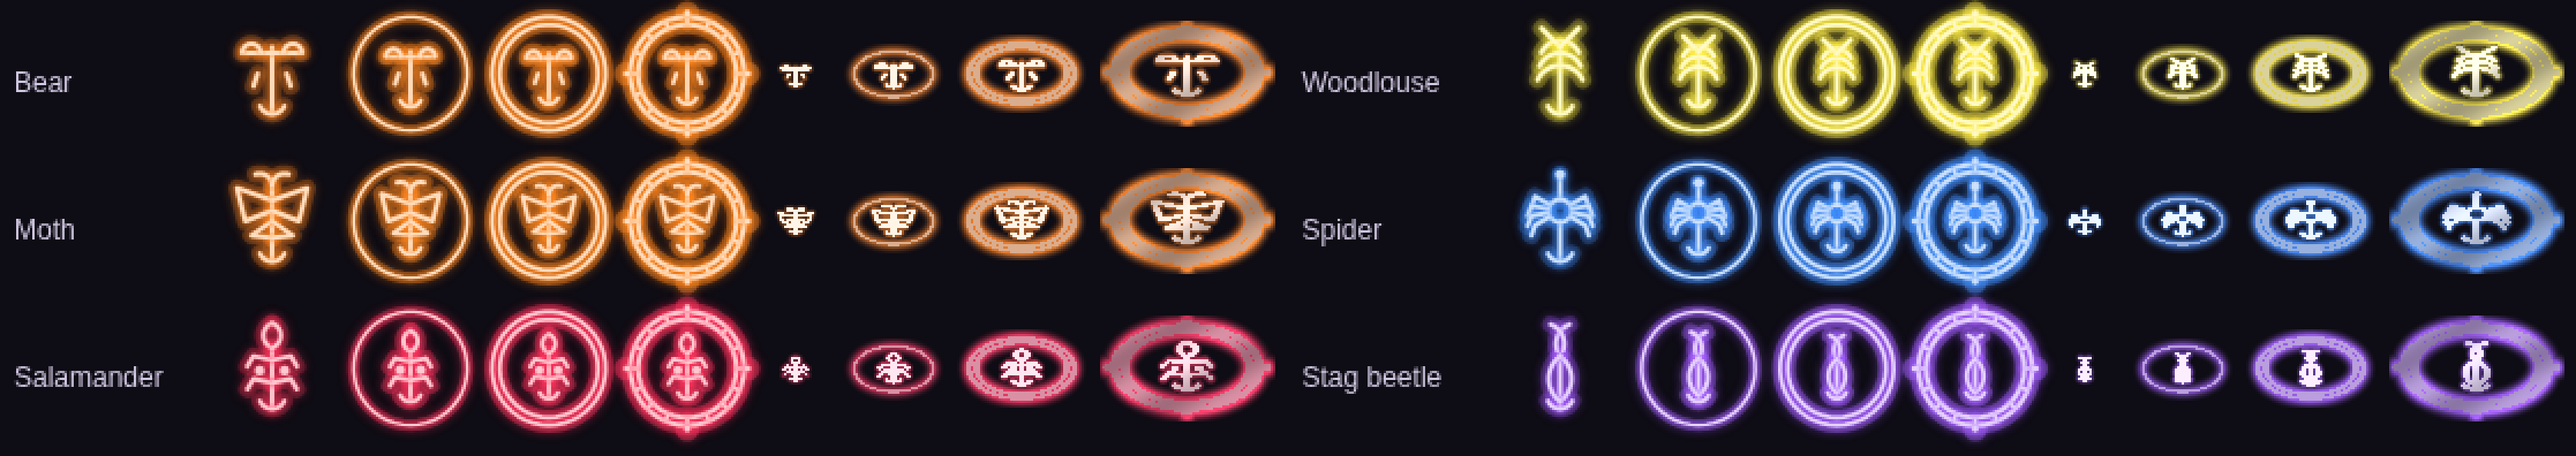
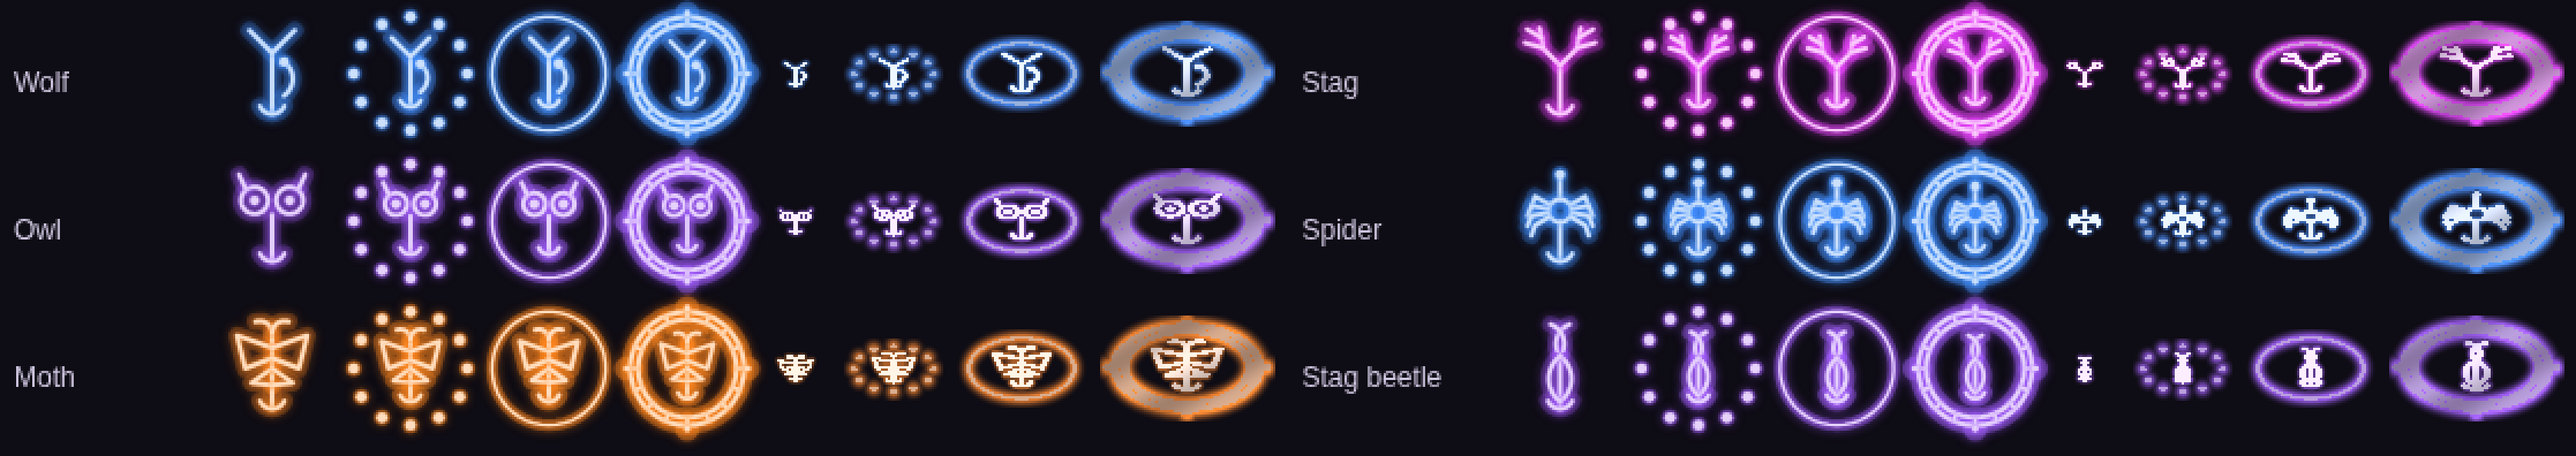
Sigils: the young's ring is dotted, the adult's a full circle
Ed: a dotted circle for young creatures and one full circle at the
normal line weight for adults (baby and legend unchanged), in every
form: flat, on the ground, floating, and the exported per-level SVGs
and now PNGs. The check makes sure the two still tell apart at 14 px.

Claude-Session: https://claude.ai/code/session_01FVGKHvaavDn5xGsWtRTBaz

diff --git a/art/sigils.js b/art/sigils.js
@@ -125,14 +125,15 @@ const rgb = c => `rgb(${c.join(",")})`;
 
 // ---- level frames ----
 // A creature level's frame, for any level number (0 baby, 1 young, 2 adult, 3 legend, and
-// beyond): size steps first, then rings, then ornament.
+// beyond): size steps first, then rings, then ornament. Ed: the young's ring is dotted, the
+// adult's a full circle; the legend's double ring is banded with ticks and rayed.
 //   metres: across on the ground (about 2, 3, 4, 5.5); core: the core line's thickness (x a
 //   baby's); halo: its brightness (0..1); rings: how many; band: rune ticks between the outer two
 //   rings; rays: short points outside the outer ring; shimmer: a slow sparkle.
 export const SIGIL_LEVELS = ["baby", "young", "adult", "legend"];
 export function sigilFrame(level = 0) {
   const L = Math.max(0, level);
-  return { level: L, metres: 2 + L + Math.max(0, L - 2) * .5, core: 1 + .2 * L, halo: Math.min(1, .45 + .19 * L), rings: Math.min(L >= 4 ? 3 : 2, Math.floor(L)), band: L >= 3, rays: L >= 4 ? 8 : L >= 3 ? 4 : 0, shimmer: L >= 3 };
+  return { level: L, metres: 2 + L + Math.max(0, L - 2) * .5, core: 1 + .2 * L, halo: Math.min(1, .45 + .19 * L), rings: L >= 4 ? 3 : L >= 3 ? 2 : L >= 2 ? 1 : 0, dots: L >= 1 && L < 2 ? 12 : 0, band: L >= 3, rays: L >= 4 ? 8 : L >= 3 ? 4 : 0, shimmer: L >= 3 };
 }
 
 // ---- geometry: strokes as polylines, with their lengths ----
@@ -159,11 +160,13 @@ export function sigilStrokes(id) {
 const markCache = new Map();
 export function sigilMark(id, level = 0) {
   const key = id + ":" + level; if (markCache.has(key)) return markCache.get(key);
-  const F = level === null ? null : sigilFrame(level), k = !F ? 1 : F.rings >= 2 ? .6 : F.rings ? .66 : .8, o = (1 - k) / 2;
-  const thick = F ? F.core : 1, ring = SIGIL_STROKE * .55 * Math.min(1.6, .8 + .25 * (F?.level ?? 0)), frame = [];
+  const F = level === null ? null : sigilFrame(level), k = !F ? 1 : F.rings >= 2 ? .6 : F.rings || F.dots ? .66 : .8, o = (1 - k) / 2;
+  const thick = F ? F.core : 1, ring = SIGIL_STROKE * .55 * ((F?.level ?? 0) < 3 ? 1 : Math.min(1.6, .8 + .25 * F.level)), frame = []; // an adult's ring at the normal line weight; the legend's heavier
   if (F) {
     const R = .44, circle = r => polyline({ a: [.5, .5, r, 90, 450] }); // from the front, round
     for (let i = 0; i < F.rings; i++) frame.push({ ...circle(R - i * .06), w: ring, part: "ring" });
+    // a young creature's dotted circle: round dots spaced well apart, so they stay distinct on the ground and small in the stack
+    for (let i = 0; i < F.dots; i++) { const a = (90 + i * 360 / F.dots) * Math.PI / 180; frame.push({ dot: true, pts: [[.5 + R * Math.cos(a), .5 + R * Math.sin(a)]], len: .05, r: .042, w: ring, part: "ring" }); }
     if (F.band && F.rings >= 2) for (let i = 0; i < 16; i++) { const a = (90 + i * 22.5) * Math.PI / 180, r0 = R - .06 + .014, r1 = R - .014; frame.push({ ...polyline({ l: [[.5 + r0 * Math.cos(a), .5 + r0 * Math.sin(a)], [.5 + r1 * Math.cos(a), .5 + r1 * Math.sin(a)]] }), w: ring * .8, part: "band" }); }
     for (let i = 0; i < F.rays; i++) { const a = (90 + i * 360 / F.rays) * Math.PI / 180, r0 = R + .02, r1 = .5 - ring / 2; frame.push({ ...polyline({ l: [[.5 + r0 * Math.cos(a), .5 + r0 * Math.sin(a)], [.5 + r1 * Math.cos(a), .5 + r1 * Math.sin(a)]] }), w: ring * 1.3, part: "ray" }); }
   }

diff --git a/tools/art-lab/dist/witch-art-lab.html b/tools/art-lab/dist/witch-art-lab.html
@@ -1882,14 +1882,15 @@ const rgb = c => `rgb(${c.join(",")})`;
 
 // ---- level frames ----
 // A creature level's frame, for any level number (0 baby, 1 young, 2 adult, 3 legend, and
-// beyond): size steps first, then rings, then ornament.
+// beyond): size steps first, then rings, then ornament. Ed: the young's ring is dotted, the
+// adult's a full circle; the legend's double ring is banded with ticks and rayed.
 //   metres: across on the ground (about 2, 3, 4, 5.5); core: the core line's thickness (x a
 //   baby's); halo: its brightness (0..1); rings: how many; band: rune ticks between the outer two
 //   rings; rays: short points outside the outer ring; shimmer: a slow sparkle.
 const SIGIL_LEVELS = ["baby", "young", "adult", "legend"];
 function sigilFrame(level = 0) {
   const L = Math.max(0, level);
-  return { level: L, metres: 2 + L + Math.max(0, L - 2) * .5, core: 1 + .2 * L, halo: Math.min(1, .45 + .19 * L), rings: Math.min(L >= 4 ? 3 : 2, Math.floor(L)), band: L >= 3, rays: L >= 4 ? 8 : L >= 3 ? 4 : 0, shimmer: L >= 3 };
+  return { level: L, metres: 2 + L + Math.max(0, L - 2) * .5, core: 1 + .2 * L, halo: Math.min(1, .45 + .19 * L), rings: L >= 4 ? 3 : L >= 3 ? 2 : L >= 2 ? 1 : 0, dots: L >= 1 && L < 2 ? 12 : 0, band: L >= 3, rays: L >= 4 ? 8 : L >= 3 ? 4 : 0, shimmer: L >= 3 };
 }
 
 // ---- geometry: strokes as polylines, with their lengths ----
@@ -1916,11 +1917,13 @@ function sigilStrokes(id) {
 const markCache = new Map();
 function sigilMark(id, level = 0) {
   const key = id + ":" + level; if (markCache.has(key)) return markCache.get(key);
-  const F = level === null ? null : sigilFrame(level), k = !F ? 1 : F.rings >= 2 ? .6 : F.rings ? .66 : .8, o = (1 - k) / 2;
-  const thick = F ? F.core : 1, ring = SIGIL_STROKE * .55 * Math.min(1.6, .8 + .25 * (F?.level ?? 0)), frame = [];
+  const F = level === null ? null : sigilFrame(level), k = !F ? 1 : F.rings >= 2 ? .6 : F.rings || F.dots ? .66 : .8, o = (1 - k) / 2;
+  const thick = F ? F.core : 1, ring = SIGIL_STROKE * .55 * ((F?.level ?? 0) < 3 ? 1 : Math.min(1.6, .8 + .25 * F.level)), frame = []; // an adult's ring at the normal line weight; the legend's heavier
   if (F) {
     const R = .44, circle = r => polyline({ a: [.5, .5, r, 90, 450] }); // from the front, round
     for (let i = 0; i < F.rings; i++) frame.push({ ...circle(R - i * .06), w: ring, part: "ring" });
+    // a young creature's dotted circle: round dots spaced well apart, so they stay distinct on the ground and small in the stack
+    for (let i = 0; i < F.dots; i++) { const a = (90 + i * 360 / F.dots) * Math.PI / 180; frame.push({ dot: true, pts: [[.5 + R * Math.cos(a), .5 + R * Math.sin(a)]], len: .05, r: .042, w: ring, part: "ring" }); }
     if (F.band && F.rings >= 2) for (let i = 0; i < 16; i++) { const a = (90 + i * 22.5) * Math.PI / 180, r0 = R - .06 + .014, r1 = R - .014; frame.push({ ...polyline({ l: [[.5 + r0 * Math.cos(a), .5 + r0 * Math.sin(a)], [.5 + r1 * Math.cos(a), .5 + r1 * Math.sin(a)]] }), w: ring * .8, part: "band" }); }
     for (let i = 0; i < F.rays; i++) { const a = (90 + i * 360 / F.rays) * Math.PI / 180, r0 = R + .02, r1 = .5 - ring / 2; frame.push({ ...polyline({ l: [[.5 + r0 * Math.cos(a), .5 + r0 * Math.sin(a)], [.5 + r1 * Math.cos(a), .5 + r1 * Math.sin(a)]] }), w: ring * 1.3, part: "ray" }); }
   }

diff --git a/art/README.md b/art/README.md
@@ -64,15 +64,15 @@ Each creature has a **sigil** (`art/sigils.js`), its name written in the forest'
 
 They glow **neon**: a near-white core in a coloured halo, each species in its own palette slot. Each creature **level** has a frame that grows, so a field of runes shows at a glance what is about:
 - **baby** (level 0): the bare sigil, about 2 m across;
-- **young** (1): about 3 m, thicker and brighter, with one ring;
-- **adult** (2): about 4 m, thicker and brighter again, with two rings;
+- **young** (1): about 3 m, thicker and brighter, in a dotted circle (12 round dots);
+- **adult** (2): about 4 m, thicker and brighter again, in a full circle at the normal line weight;
 - **legend** (3): about 5.5 m, the thickest and brightest, with its double ring banded with rune ticks, four rays and a slow shimmer.
 
 | Call | Gives |
 |---|---|
 | `SIGILS[id]` | the strokes, in writing order, in a unit box (x right, y down): `{ l: [[x, y], …] }` a polyline, `{ a: [cx, cy, r, from, to] }` an arc (degrees, 0 right, 90 down), `{ d: [x, y] }` an end dot; each drawn from its first point. `SIGIL_STROKE` and `SIGIL_DOT` are the stroke width and dot radius |
 | `NEON`, `SIGIL_NEON[id]`, `sigilColour(id)` | the neon palette, each species' slot in it, and its colour. Every renderer also takes `colour`, so the game can recolour (per outfit, say) |
-| `sigilFrame(level)`, `SIGIL_LEVELS` | a level's frame, for any level number (0 baby, 1 young, 2 adult, 3 legend): `{ metres, core, halo, rings, band, rays, shimmer }`. Size steps first, then rings, then ornament, so levels between or beyond these extend it |
+| `sigilFrame(level)`, `SIGIL_LEVELS` | a level's frame, for any level number (0 baby, 1 young, 2 adult, 3 legend): `{ metres, core, halo, rings, dots, band, rays, shimmer }`. Size steps first, then rings, then ornament, so levels between or beyond these extend it |
 | `sigilStrokes(id)`, `sigilMark(id, level)` | the sigil's strokes as polylines, or everything drawn for a level (the frame first, then the sigil scaled into it) in its "mark" box. Each carries its share of the draw-on (`start`, `end`, 0 to 1) and its width |
 | `sigilSVG(id, { size, level, colour, glow, progress })`, `drawSigil(ctx, id, { x, y, size, level, colour, progress, glow })` | the neon sigil as an SVG string or on a canvas, bare (`level` null, the default) or framed for a level; `progress` below 1 draws it partly written. Transform the canvas first to lay it on a plane |
 | `sigilGlyph(id, size)`, `sigilHit(id, u, v, w)` | the bare sigil as a pixel glyph (`{ w, h, m }`, 12 to 24 px), or a hit test for carving it like `runeGlyph` |
@@ -85,7 +85,7 @@ They glow **neon**: a near-white core in a coloured halo, each species in its ow
 
 In a 3D engine, `drawSigil` onto a canvas texture laid flat on the ground (or upright, facing the camera, for the stack) does the same as the pixel fields, with the engine doing the foreshortening.
 
-The export writes each sigil as `sigil-<species>.svg` (bare), a 64 px `sigil-<species>.png`, and `sigil-<species>-baby|young|adult|legend.svg` (framed). It lists them, with their strokes, neon slots, the level frames and the stack's tuning, under `sigils` in `manifest.json`.
+The export writes each sigil as `sigil-<species>.svg` (bare), a 64 px `sigil-<species>.png`, and `sigil-<species>-baby|young|adult|legend.svg` and `.png` (framed, 64 px). It lists them, with their strokes, neon slots, the level frames and the stack's tuning, under `sigils` in `manifest.json`.
 
 The night lighting pass the lab uses is `shade(target, out, style, lights, rect)` in `art/lighting.js`.
 

diff --git a/CLAUDE.md b/CLAUDE.md
@@ -27,7 +27,7 @@ Not in CI, run by builders before a FINAL: `npm run build && npm run smoke`, a h
 
 The art generator (`art/`, entry `art/generator.js`) and the Witch Art Lab (`tools/art-lab/`) have one more check, not in CI, run from the repository root before every push that touches them:
 
-- `node art/check.mjs` — builds the lab, opens the source page and the built page in headless Chromium (no script errors, a bestiary card for every species, the scene drawn), and draws every creature, tree, bush, area type, soundsystem and sigil (each non-empty, creatures and soundsystems standing on their bottom row; baby < young < adult < legend for every species, and the bigger species' adults 1.15 to 1.45 times the witch; party gear (collar, hat, shoes) shows on every species at baby, young and adult without changing its size, woken eyes glow red, partyGear is seeded and varied; only magical materials glow, and flowering areas have no glowing pixels; a soundsystem about three times the witch; the witch's rise and descend frames exist for both facings at her ordinary scale with nothing NaN; every species has a sigil that renders as vector, as a 12 px glyph, on the ground and floating, its strokes inside the box, each level's ground rune bigger with more rings; the leash stack stands newest at the bottom, trails behind her flight and settles).
+- `node art/check.mjs` — builds the lab, opens the source page and the built page in headless Chromium (no script errors, a bestiary card for every species, the scene drawn), and draws every creature, tree, bush, area type, soundsystem and sigil (each non-empty, creatures and soundsystems standing on their bottom row; baby < young < adult < legend for every species, and the bigger species' adults 1.15 to 1.45 times the witch; party gear (collar, hat, shoes) shows on every species at baby, young and adult without changing its size, woken eyes glow red, partyGear is seeded and varied; only magical materials glow, and flowering areas have no glowing pixels; a soundsystem about three times the witch; the witch's rise and descend frames exist for both facings at her ordinary scale with nothing NaN; every species has a sigil that renders as vector, as a 12 px glyph, on the ground and floating, its strokes inside the box, each level's ground rune bigger, the young's ring dotted and the adult's full (telling apart at 14 px); the leash stack stands newest at the bottom, trails behind her flight and settles).
 
 Related commands: `node tools/art-lab/build.mjs` writes the self-contained lab page to `tools/art-lab/dist/witch-art-lab.html` (the one to publish); `node art/export.mjs [style.json] [out dir]` exports every asset as albedo and normal-map PNGs with `manifest.json` (default `art/out/`, not committed); `node art/preview.mjs animals|trees|areas|lights|soundsystems|sigils <list> <png> [scale]` renders lit preview sheets. They need Playwright's Chromium (in cloud sessions, under `/opt/pw-browsers`).
 
